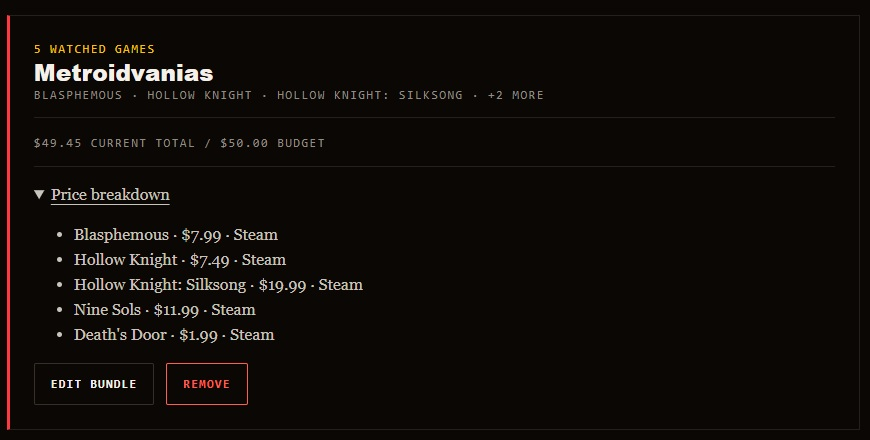
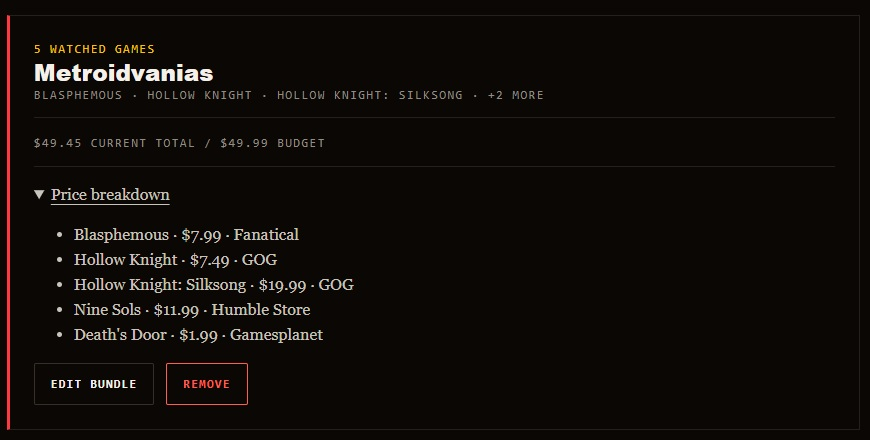
Publish approved bundle, copy and connected contact form

diff --git a/index.html b/index.html
@@ -13,12 +13,13 @@
   <meta property="og:image" content="https://lazydeals.tech/assets/watchlist-deaths-door.jpg">
   <meta property="og:image:alt" content="LazyDeals PC game watchlist with game artwork and price targets">
   <link rel="icon" href="./assets/icon128.png" type="image/png">
-  <script>try { const choice = localStorage.getItem("lazydeals-motion"); if (choice === "on") document.documentElement.classList.add("motion-preview"); if (choice === "off") document.documentElement.classList.add("motion-off"); } catch {} if (/^(localhost|127\.0\.0\.1)$/.test(location.hostname) && new URLSearchParams(location.search).get("motion") === "preview" && !document.documentElement.classList.contains("motion-off")) document.documentElement.classList.add("motion-preview");</script>
+  <script>if (/^(localhost|127\.0\.0\.1)$/.test(location.hostname) && new URLSearchParams(location.search).get("motion") === "preview") document.documentElement.classList.add("motion-preview");</script>
   <link rel="stylesheet" href="./vendor/locomotive-scroll.css">
-  <link rel="stylesheet" href="./site.css?v=20261007-3">
+  <link rel="stylesheet" href="./site.css?v=20261008-1">
   <script defer src="./vendor/locomotive-scroll.min.js"></script>
-  <script defer src="./motion.js?v=20261007-3"></script>
+  <script defer src="./motion.js?v=20261008-1"></script>
   <script type="module" src="./offers.js"></script>
+  <script defer src="./contact.js"></script>
 </head>
 <body>
   <a class="skip-link" href="#main">Skip to content</a>
@@ -31,7 +32,7 @@
   <header class="site-head">
     <div class="shell head-inner">
       <a class="brand" href="./" aria-label="LazyDeals home"><img src="./assets/icon128.png" alt="" width="52" height="52"><span class="brand-name"><span class="brand-l">L</span>azy<span class="brand-d">D</span>eals</span></a>
-      <nav class="head-links" aria-label="Main navigation"><button class="motion-toggle" type="button" hidden>Enable animations</button><a class="help-link" href="./help/">How it works</a></nav>
+      <nav class="head-links" aria-label="Main navigation"><a class="help-link" href="./help/">How it works</a></nav>
     </div>
   </header>
   <main id="main">
@@ -65,7 +66,7 @@
       <p class="offer-footnote">LazyDeals can notify you about these offers in the extension. The notification switch does not hide them.</p>
       </div>
     </section>
-    <div class="statement-band"><div class="shell plain-intro"><strong>One watchlist.<br>Two ways to check prices.</strong><p>Choose the mode that fits how you shop. Your saved targets remain when you switch modes; only the selected mode runs background checks.</p></div><div class="word-cascade" data-scroll data-scroll-css-progress aria-hidden="true"><span style="--drift: -26vw">ONE WATCHLIST</span><span style="--drift: 19vw">ONE WATCHLIST</span><span style="--drift: -13vw">ONE WATCHLIST</span><span style="--drift: 23vw">ONE WATCHLIST</span><span style="--drift: -20vw">ONE WATCHLIST</span></div></div>
+    <div class="statement-band"><div class="shell plain-intro"><strong>One watchlist.<br>Two ways to check prices.</strong><p>Choose the mode that fits how you shop. Your saved targets remain when you switch modes; only the selected mode runs background checks.</p></div><div class="word-cascade" data-scroll data-scroll-css-progress aria-hidden="true"><span style="--drift: -26vw">ONE WATCHLIST</span><span style="--drift: 19vw">YOUR PRICE</span><span style="--drift: -13vw">MORE STORES</span><span style="--drift: 23vw">LESS CHECKING</span><span style="--drift: -20vw">GET ALERTS</span></div></div>
     <section class="section shell modes-stage" aria-labelledby="modes-heading">
       <h2 id="modes-heading">Pick the price that matters to you.</h2>
       <div class="mode-grid">
@@ -78,8 +79,8 @@
       <ol class="import-steps" aria-label="Steam wishlist import steps"><li data-scroll data-scroll-speed="0.12" data-scroll-enable-touch-speed><strong>Copy</strong><span>Use Steam’s wishlist Share link.</span></li><li data-scroll data-scroll-speed="0.04" data-scroll-enable-touch-speed><strong>Review</strong><span>Check matched games and targets.</span></li><li data-scroll data-scroll-speed="-0.06" data-scroll-enable-touch-speed><strong>Save</strong><span>Track only the games you choose.</span></li></ol>
     </section>
     <section class="section shell proof reverse" aria-labelledby="bundles-heading">
-      <div class="proof-copy"><span class="budget-figure" aria-hidden="true" data-scroll data-scroll-speed="0.28" data-scroll-enable-touch-speed>$50</span><h2 id="bundles-heading" class="scene-reveal" data-scroll>A budget for the whole group.</h2><p>Put at least two watched games in a budget bundle. LazyDeals totals each game’s current eligible price and can alert you when the group falls under your saved budget or drops further.</p><p class="muted">Bundle budgets are separate for All Stores and Regional pricing. A bundle is a shopping plan, not a store-sold package.</p></div>
-      <figure class="proof-image" data-scroll data-scroll-speed="-0.16" data-scroll-enable-touch-speed><div class="screenshot"><img src="./assets/bundles-metroidvanias.jpg" alt="Metroidvanias budget bundle with Blasphemous, Hollow Knight, Hollow Knight: Silksong, Nine Sols, and Death's Door under a $50 budget" width="870" height="440" loading="lazy"></div><figcaption>Example $50 bundle. Displayed game prices are staged, not live offers.</figcaption></figure>
+      <div class="proof-copy"><span class="budget-figure" aria-hidden="true" data-scroll data-scroll-speed="0.28" data-scroll-enable-touch-speed>$49.99</span><h2 id="bundles-heading" class="scene-reveal" data-scroll>A budget for the whole group.</h2><p>Put at least two watched games in a budget bundle. LazyDeals totals each game’s current eligible price and can alert you when the group falls under your saved budget or drops further.</p><p class="muted">Bundle budgets are separate for All Stores and Regional pricing. A bundle is a shopping plan, not a store-sold package.</p></div>
+      <figure class="proof-image" data-scroll data-scroll-speed="-0.16" data-scroll-enable-touch-speed><div class="screenshot"><img src="./assets/bundles-metroidvanias.jpg" alt="Metroidvanias budget bundle with Blasphemous, Hollow Knight, Hollow Knight: Silksong, Nine Sols, and Death's Door under a $49.99 budget across multiple stores" width="870" height="440" loading="lazy"></div><figcaption>Example $49.99 bundle. Displayed game prices are staged, not live offers.</figcaption></figure>
     </section>
     <section class="section shell faq" aria-labelledby="questions-heading"><h2 id="questions-heading" class="scene-reveal" data-scroll>Before you install.</h2><div class="faq-list">
       <details><summary>Do I need an account?</summary><p>No LazyDeals account is required. Your watchlist choices are saved through your browser’s extension storage. <a href="https://bahimehdi.github.io/lazydeals-privacy/">Read the privacy policy</a>.</p></details>
@@ -89,6 +90,21 @@
     </div></section>
     <section class="install-stage" aria-labelledby="install-heading"><div class="shell install"><div><h2 id="install-heading" class="scene-reveal" data-scroll>You pick the price. LazyDeals does the checking.</h2><p>Install on Chrome or Edge, add games you want, and set your targets. Get browser alerts for qualifying price drops.</p></div><div class="install-actions"><a class="store-badge" href="https://chromewebstore.google.com/detail/lazydeals/dlcikhpiigmpciddcdjclepnppcachni" aria-label="Get LazyDeals for Chrome on the Chrome Web Store"><img src="./assets/chrome-web-store-badge.png" alt="Available in the Chrome Web Store" width="340" height="96" loading="lazy"></a><a class="store-badge" href="https://microsoftedge.microsoft.com/addons/detail/lazydeals/hldbfjjaedkheeglkflhnkkppgeiihhm" aria-label="Get LazyDeals for Edge on Microsoft Edge Add-ons"><img src="./assets/edge-addons-badge.png" alt="Get it from Microsoft Edge" width="1178" height="312" loading="lazy"></a></div></div></section>
   </main>
-  <footer class="site-foot"><div class="shell foot-inner"><div class="foot-mark"><img src="./assets/icon128.png" alt="" width="96" height="96" loading="lazy"><span><span class="brand-l">L</span>azy<span class="brand-d">D</span>eals</span></div><nav class="foot-links" aria-label="Footer"><a href="./help/">Help</a><a href="https://bahimehdi.github.io/lazydeals-privacy/">Privacy</a><a href="mailto:lazydeals.help@outlook.com">Contact</a></nav><p class="foot-last">PC game price monitoring for Chrome and Edge. Store availability and prices can change.</p></div></footer>
+  <section class="shell contact-section" id="contact" aria-labelledby="contact-heading">
+    <div class="contact-copy"><h2 id="contact-heading">Something not<br>working?</h2><p>Report a bug, ask a question, or suggest something for LazyDeals.</p><p class="muted">For a bug, include your browser and what happened. Don’t include passwords or private Steam wishlist links.</p><a class="contact-email" href="mailto:lazydeals.help@outlook.com">lazydeals.help@outlook.com</a></div>
+    <form id="contact-form" action="https://formspree.io/f/mrpeporn" method="post" aria-describedby="contact-privacy">
+      <label for="contact-email">Your email <span>(required)</span></label>
+      <input id="contact-email" name="email" type="email" autocomplete="email" required maxlength="254" aria-describedby="contact-email-error">
+      <p class="field-message" id="contact-email-error"></p>
+      <label for="contact-message">Message <span>(required)</span></label>
+      <textarea id="contact-message" name="message" rows="5" required maxlength="5000" aria-describedby="contact-message-error"></textarea>
+      <p class="field-message" id="contact-message-error"></p>
+      <input type="text" name="_gotcha" hidden tabindex="-1" autocomplete="off" aria-hidden="true">
+      <p id="contact-privacy" class="small-note">Sending shares your email and message with LazyDeals through Formspree, which processes and stores submissions. Don’t send sensitive information. <a href="https://formspree.io/legal/privacy-policy/">Formspree privacy policy</a>.</p>
+      <button class="button" type="submit">Send message</button>
+      <p id="contact-status" class="small-note" role="status" aria-live="polite"></p>
+    </form>
+  </section>
+  <footer class="site-foot"><div class="shell foot-inner"><div class="foot-mark"><img src="./assets/icon128.png" alt="" width="96" height="96" loading="lazy"><span><span class="brand-l">L</span>azy<span class="brand-d">D</span>eals</span></div><nav class="foot-links" aria-label="Footer"><a href="./help/">Help</a><a href="https://bahimehdi.github.io/lazydeals-privacy/">Privacy</a><a href="#contact">Contact</a></nav><p class="foot-last">PC game price monitoring for Chrome and Edge. Store availability and prices can change.</p></div></footer>
 </body>
 </html>

diff --git a/site.css b/site.css
@@ -9,7 +9,11 @@
 :root { --color-app-surface: rgb(11 7 4); --color-wordmark-outline: #000; }
 
 *, *::before, *::after { box-sizing: border-box; }
-html, body { margin: 0; overflow-x: clip; }
+html, body { margin: 0; overflow-x: clip; scrollbar-width: thin; scrollbar-color: var(--color-accent) var(--color-paper); }
+html::-webkit-scrollbar, body::-webkit-scrollbar { width: 8px; height: 8px; }
+html::-webkit-scrollbar-track, body::-webkit-scrollbar-track { background: var(--color-paper); }
+html::-webkit-scrollbar-thumb, body::-webkit-scrollbar-thumb { border-radius: 2px; background: var(--color-accent); }
+html::-webkit-scrollbar-thumb:hover, body::-webkit-scrollbar-thumb:hover { background: var(--color-accent-hover); }
 html { scroll-behavior: smooth; }
 html.lenis { scroll-behavior: auto; }
 body { background: var(--color-paper); color: var(--color-ink); font-family: var(--font-body); line-height: 1.55; }
@@ -39,14 +43,7 @@ h1, h2, h3 { min-width: 0; overflow-wrap: anywhere; }
 .head-links { display: flex; align-items: center; gap: var(--space-6); font: 700 .8rem/1.2 var(--font-ui); text-transform: uppercase; letter-spacing: .055em; }
 .head-links a { white-space: nowrap; text-decoration-thickness: 1px; text-underline-offset: .3em; }
 .head-links a:hover { color: var(--color-accent-hover); }
-.motion-toggle { font: inherit; text-transform: inherit; color: inherit; background: transparent; border: 1px solid currentColor; padding: .65rem; cursor: pointer; }
-.motion-toggle:focus-visible { outline: 3px solid var(--color-focus); outline-offset: 4px; }
 @media (max-width: 600px) { .head-inner { flex-wrap: wrap; padding-block: 1rem; } .head-links { flex-wrap: wrap; gap: 1rem; } }
-html.motion-off { scroll-behavior: auto; }
-html.motion-off .entry-curtain { display: none; }
-html.motion-off .hero-copy, html.motion-off .hero-visual { animation: none; }
-html.motion-off [data-scroll], html.motion-off .word-cascade span { transform: none !important; }
-html.motion-off .scene-reveal { opacity: 1; transition: none; }
 .hero { position: relative; isolation: isolate; display: grid; grid-template-columns: minmax(0, 1.04fr) minmax(0, .96fr); gap: clamp(2rem, 5vw, 5rem); align-items: end; min-height: max(42rem, calc(100svh - 5.5rem)); padding-block: var(--space-16) var(--space-24); }
 .hero-copy, .hero-visual { position: relative; z-index: 1; }
 .hero-copy { animation: hero-arrive 550ms var(--ease-out) 1960ms both; }
@@ -318,7 +315,7 @@ figcaption { margin-top: var(--space-3); color: var(--color-muted); font: .72rem
 .proof:not(.reverse) .import-steps span { grid-column: 2; }
 .proof.reverse { min-height: 110svh; align-items: start; }
 .proof.reverse .proof-copy { align-self: center; }
-.budget-figure { display: block; color: var(--color-accent); font: 900 clamp(7rem, 16vw, 18rem)/.8 var(--font-display); letter-spacing: -.1em; margin-bottom: var(--space-12); }
+.budget-figure { display: block; color: var(--color-accent); font: 900 clamp(3.8rem, 10vw, 11rem)/.8 var(--font-display); letter-spacing: -.08em; margin-bottom: var(--space-12); }
 .proof.reverse .proof-image { align-self: center; }
 .faq h2 { position: sticky; top: var(--space-16); align-self: start; }
 .install-stage { background: var(--color-accent); color: var(--color-paper); }
@@ -349,3 +346,22 @@ figcaption { margin-top: var(--space-3); color: var(--color-muted); font: .72rem
   html:not(.motion-preview) .word-cascade span { transform: none; }
   html:not(.motion-preview) .scene-reveal { opacity: 1; transform: none; transition: none; }
 }
+
+/* Contact preview inherits the existing editorial typography and palette. */
+.contact-section { display: grid; grid-template-columns: minmax(0, 1fr) minmax(0, 1fr); gap: var(--space-16); padding-block: var(--space-24); }
+.contact-copy h2 { margin: 0 0 var(--space-8); font: 900 var(--text-h2)/1 var(--font-display); letter-spacing: -.055em; }
+.contact-copy p { max-width: 34ch; font-size: var(--text-body); }
+.contact-email { display: inline-block; padding-block: var(--space-3); font-family: var(--font-ui); color: var(--color-accent); }
+#contact-form { display: grid; align-content: start; min-width: 0; font-family: var(--font-ui); }
+#contact-form label { font-weight: 700; margin-bottom: var(--space-2); }
+#contact-form label span { color: var(--color-muted); font-weight: 400; font-size: .8rem; }
+#contact-form input, #contact-form textarea { min-width: 0; width: 100%; min-height: 3.25rem; padding: var(--space-3); border: 1px solid var(--color-rule); background: var(--color-paper); color: var(--color-ink); font: inherit; border-radius: var(--radius-none); }
+#contact-form textarea { resize: vertical; min-height: 10rem; }
+#contact-form :is(input, textarea, button):focus-visible { outline: 3px solid var(--color-focus); outline-offset: 3px; }
+#contact-form [aria-invalid="true"] { border-color: var(--color-brand-red); }
+.field-message { min-height: 1.5em; margin: var(--space-1) 0 var(--space-4); color: var(--color-brand-red); font-size: .85rem; }
+#contact-form .button { justify-self: start; cursor: pointer; }
+#contact-form .button:disabled { opacity: .5; cursor: not-allowed; }
+#contact-status { min-height: 3em; }
+@media (hover: hover) { #contact-form input:hover, #contact-form textarea:hover { background: var(--color-paper-raised); } }
+@media (max-width: 800px) { .contact-section { grid-template-columns: minmax(0, 1fr); gap: var(--space-8); padding-block: var(--space-16); } }

diff --git a/contact.js b/contact.js
@@ -1,0 +1,52 @@
+// Formspree receives submissions; no inbox credentials or local storage are used.
+const form = document.querySelector("#contact-form");
+const fields = [...form.querySelectorAll("input[required], textarea[required]")];
+const button = form.querySelector("button");
+let sending = false;
+const status = document.querySelector("#contact-status");
+const touched = new Set();
+function validate(field) {
+  const valid = field.validity.valid && field.value.trim().length > 0;
+  field.setAttribute("aria-invalid", String(!valid));
+  document.getElementById(`${field.id}-error`).textContent = valid ? "" :
+    field.type === "email" ? "Enter a valid email address so we can reply." : "Write a message before continuing.";
+  return valid;
+}
+for (const field of fields) {
+  field.addEventListener("blur", () => { touched.add(field); validate(field); });
+  field.addEventListener("input", () => {
+    if (touched.has(field)) validate(field);
+    status.textContent = "";
+  });
+}
+button.disabled = false;
+form.addEventListener("submit", async event => {
+  event.preventDefault();
+  if (sending) return;
+  const invalid = fields.filter(field => { touched.add(field); return !validate(field); });
+  if (invalid.length) { invalid[0].focus(); return; }
+  sending = true;
+  button.disabled = true;
+  button.textContent = "Sending…";
+  form.setAttribute("aria-busy", "true");
+  status.textContent = "Sending your message…";
+  try {
+    const response = await fetch(form.action, {
+      method: "POST", body: new FormData(form), headers: { Accept: "application/json" },
+      signal: AbortSignal.timeout(15000), credentials: "omit", referrerPolicy: "no-referrer"
+    });
+    if (!response.ok) throw new Error(response.status === 429 ? "rate-limit" : "submission");
+    status.textContent = "Your message was accepted. Thank you for contacting LazyDeals.";
+    form.reset();
+    touched.clear();
+  } catch (error) {
+    status.textContent = error.message === "rate-limit"
+      ? "Too many submissions. Please wait before trying again, or email lazydeals.help@outlook.com."
+      : "We couldn’t confirm your submission. Your message is still here. Try again later or email lazydeals.help@outlook.com.";
+  } finally {
+    sending = false;
+    button.disabled = false;
+    button.textContent = "Send message";
+    form.removeAttribute("aria-busy");
+  }
+});

diff --git a/motion.js b/motion.js
@@ -1,6 +1,5 @@
 // Locomotive Scroll 5.0.1 (MIT) is vendored from locomotivemtl/locomotive-scroll.
 // Follow the upstream landing demo's declarative data-scroll/data-scroll-speed pattern.
-const curtainTemplate = document.querySelector(".entry-curtain")?.cloneNode(true);
 document.addEventListener("animationend", (event) => {
   if (event.target.matches(".entry-curtain") && event.animationName === "curtain-lift") event.target.remove();
 });
@@ -8,9 +7,8 @@ document.addEventListener("animationend", (event) => {
 const motionPreference = window.matchMedia("(prefers-reduced-motion: reduce)");
 const desktop = window.matchMedia("(min-width: 801px)");
 const root = document.documentElement;
-const toggle = document.querySelector(".motion-toggle");
 function motionEnabled() {
-  return !root.classList.contains("motion-off") && (!motionPreference.matches || root.classList.contains("motion-preview"));
+  return !motionPreference.matches || root.classList.contains("motion-preview");
 }
 let scroll;
 
@@ -21,8 +19,6 @@ if ("scrollRestoration" in history && !location.hash) {
 
 function syncScroll() {
   const enabled = desktop.matches && motionEnabled();
-  toggle.textContent = motionEnabled() ? "Disable animations" : "Enable animations";
-  toggle.hidden = false;
   if (enabled && !scroll && typeof window.LocomotiveScroll === "function") {
     scroll = new window.LocomotiveScroll();
     document.documentElement.classList.add("motion-active");
@@ -37,15 +33,6 @@ function syncScroll() {
   }
 }
 
-toggle.addEventListener("click", () => {
-  const enabled = !motionEnabled();
-  root.classList.toggle("motion-preview", enabled);
-  root.classList.toggle("motion-off", !enabled);
-  try { localStorage.setItem("lazydeals-motion", enabled ? "on" : "off"); } catch {}
-  document.querySelector(".entry-curtain")?.remove();
-  if (enabled && curtainTemplate) document.body.prepend(curtainTemplate.cloneNode(true));
-  syncScroll();
-});
 desktop.addEventListener("change", syncScroll);
 motionPreference.addEventListener("change", syncScroll);
 syncScroll();

diff --git a/README.md b/README.md
@@ -2,11 +2,11 @@
 
 Static HTML/CSS/JavaScript for the product homepage and help page. There is no LazyDeals backend, analytics, or visitor-side call to the offer provider. The 100%-off rail loads a same-origin `offers.json` snapshot built by GitHub Actions.
 
-The homepage motion adapts the [Locomotive Scroll 5.0 landing demo](https://scroll.locomotive.ca/) using the exact self-hosted Locomotive Scroll 5.0.1 bundled runtime from its [MIT-licensed repository](https://github.com/locomotivemtl/locomotive-scroll). Its license is in `vendor/LICENSE`. Motion uses the upstream `data-scroll`, `data-scroll-speed`, and CSS-progress attributes. Narrow viewports get static scrolling; reduced-motion users get static scrolling and no curtain unless they explicitly enable animations. No runtime CDN is required.
+The homepage motion adapts the [Locomotive Scroll 5.0 landing demo](https://scroll.locomotive.ca/) using the exact self-hosted Locomotive Scroll 5.0.1 bundled runtime from its [MIT-licensed repository](https://github.com/locomotivemtl/locomotive-scroll). Its license is in `vendor/LICENSE`. Motion uses the upstream `data-scroll`, `data-scroll-speed`, and CSS-progress attributes. Narrow viewports get static scrolling; reduced-motion users get static scrolling and no curtain by default. No runtime CDN is required.
 
 The site repository's `.github/workflows/refresh-offers.yml` runs on pushes, manual dispatch, and a three-hour schedule. It requests the Epic PC, Steam and GOG feeds once each, applies the same paid-PC-game filters as the extension, and deploys a Pages artifact. A failed feed request fails that run; the previous deployment remains, and the website stops displaying it as current after six hours. GitHub scheduled runs can be delayed or disabled after prolonged repository inactivity, so check Actions if the rail says its reports are unavailable.
 
-To preview locally, generate `offers.json` into a separate temporary copy of the site with `node scripts/build-offers.mjs <artifact-directory>/offers.json`, then serve that directory over HTTP. The browser requests only `offers.json` from its own origin; offer artwork is loaded from the HTTPS image URL in the report, with no referrer. Selecting an offer opens its FreeToKeep report page, where the visitor can continue to the store. Only the local animation preference described below is saved.
+To preview locally, generate `offers.json` into a separate temporary copy of the site with `node scripts/build-offers.mjs <artifact-directory>/offers.json`, then serve that directory over HTTP. The browser requests only `offers.json` from its own origin; offer artwork is loaded from the HTTPS image URL in the report, with no referrer. Selecting an offer opens its FreeToKeep report page, where the visitor can continue to the store. Contact submissions are handled separately by Formspree as described below.
 
 ## Publication gates
 
@@ -14,10 +14,12 @@ To preview locally, generate `offers.json` into a separate temporary copy of the
 - The production hostname is `https://lazydeals.tech/`. Keep the self-canonical URLs, Open Graph image URLs, `robots.txt`, and sitemap aligned with that hostname; do not index temporary previews.
 - Test the deployed homepage, `/help/`, store destination, privacy policy, support email and mobile layouts. Submit the production hostname to Google Search Console; indexing and ranking are not guaranteed.
 - The hero image is a crop of the real 1.1.0 extension UI in an isolated demo profile. It shows staged $10 Deaths Door and Silksong targets. Deaths Door's Steam ($1.99), Fanatical and Gamesplanet ($3.99), and Humble Store and GOG ($4.99) discounted offers were checked against the CheapShark batch response on October 6, 2026, then staged in the profile for a reproducible screenshot. This is a dated example, not a live quote. Refresh screenshots when the shipped UI materially changes, and check them for personal data or Share-link tokens.
-- The budget-bundle image is another isolated 1.1.0 UI capture: a staged $50 "Metroidvanias" bundle with Blasphemous, Hollow Knight, Hollow Knight: Silksong, Nine Sols, and Death's Door. Its expanded price breakdown and $49.45 total are illustrative fixture values, not current provider quotes.
+- The budget-bundle image is another isolated 1.1.0 UI capture: a staged $49.99 "Metroidvanias" bundle with Blasphemous, Hollow Knight, Hollow Knight: Silksong, Nine Sols, and Death's Door. Its expanded price breakdown and $49.45 total are illustrative fixture values, not current provider quotes.
 - In Settings → Pages, set the publishing Source to **GitHub Actions**. Branch-source Pages builds are not triggered by `GITHUB_TOKEN` workflow commits; this site deploys an artifact directly. Keep the existing `lazydeals.tech` custom domain and Enforce HTTPS setting.
 - The public privacy policy currently lives at `https://bahimehdi.github.io/lazydeals-privacy/`. Keep its disclosures aligned with the extension before linking it from a production site.
 
-The header animation control stores only the visitor's on/off motion preference in this site's localStorage (`lazydeals-motion`). With no saved choice, the OS reduced-motion preference is respected. Enabling animations replays the curtain; desktop parallax remains disabled on narrow screens. This preference is not transmitted.
+Animations start automatically; the OS reduced-motion preference is respected and desktop parallax remains disabled on narrow screens. The toggle and its stored preference are no longer used. Local reviewers can use `?motion=preview` to inspect motion despite their OS setting.
+
+The contact form POSTs email/message to the user-supplied Formspree endpoint https://formspree.io/f/mrpeporn. The configured recipient shown by the user is lazydeals.help@outlook.com. An inline notice links Formspree's privacy policy and discloses processing/storage. No inbox secrets, attachments, local message storage or public rendering of submissions. A honeypot supplements provider filtering; dashboard CAPTCHA/domain restrictions must be configured there. One approved test was accepted on October 8, 2026; inbox receipt remains user-verifiable. The UI handles failure/rate limits and retains the message on error.
 
 The extension runtime, permissions and storage are not modified by this site.
